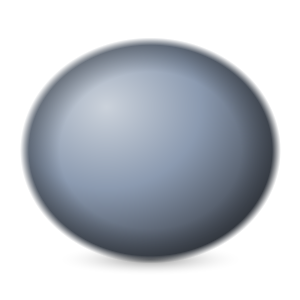
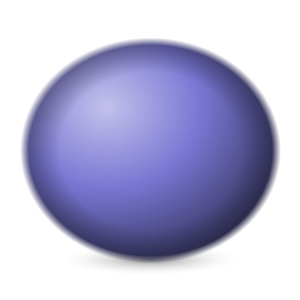
Vuelve P2 (CRUZ) al indigo original en vez del acero neutro
El usuario pidio explicitamente, con una imagen de referencia, que la
esfera y el borde del label de CRUZ usen el indigo/teal saturado
(#7B7BEA / #38C9BB) en vez del tono acero mas neutro (#8FA3C2 / #C7D2E0)
que se habia aplicado antes. backgroundTop/backgroundBottom de P2 ya
coincidian con la imagen, no cambian.

Como accent/accentHighlight alimentan glassTint y glassBorder en tiempo de
uso, el borde del _GlassLabel y el punto/borde de los chips de historial
de CRUZ heredan el nuevo color sin tocar coin_screen.dart. Actualiza
_cruzColor en generate_placeholders.dart y regenera los 14 PNG.

Changed region(s): [[0.09, 0.15, 0.84, 0.78]]

diff --git a/lib/core/theme.dart b/lib/core/theme.dart
@@ -19,10 +19,11 @@ abstract class AppTheme {
 
 /// Acento visual asociado a la cara de la moneda que está en pantalla.
 ///
-/// `cara` ("Oro y Grafito") y `cruz` ("Plata Azulada") son las dos paletas
-/// documentadas en `public_rag/app_look_feel.md` — cualquier cambio de tono
-/// acá debe reflejarse también ahí y en `generate_placeholders.dart`, que
-/// mantiene sus propios valores RGB porque corre fuera del SDK de Flutter.
+/// `cara` ("Oro y Grafito") y `cruz` ("Índigo Nocturno") son las dos
+/// paletas documentadas en `public_rag/app_look_feel.md` — cualquier cambio
+/// de tono acá debe reflejarse también ahí y en `generate_placeholders.dart`,
+/// que mantiene sus propios valores RGB porque corre fuera del SDK de
+/// Flutter.
 class CoinPalette {
   const CoinPalette({
     required this.accent,
@@ -50,8 +51,8 @@ class CoinPalette {
   );
 
   static const cruz = CoinPalette(
-    accent: Color(0xFF8FA3C2),
-    accentHighlight: Color(0xFFC7D2E0),
+    accent: Color(0xFF7B7BEA),
+    accentHighlight: Color(0xFF38C9BB),
     backgroundTop: Color(0xFF1C1A30),
     backgroundBottom: Color(0xFF0B0B12),
   );

diff --git a/generate_placeholders.dart b/generate_placeholders.dart
@@ -19,7 +19,7 @@ import 'dart:typed_data';
 /// purpose. See public_rag/app_look_feel.md.
 
 const _caraColor = [0xD6, 0xAD, 0x60]; // CoinPalette.cara.accent
-const _cruzColor = [0x8F, 0xA3, 0xC2]; // CoinPalette.cruz.accent
+const _cruzColor = [0x7B, 0x7B, 0xEA]; // CoinPalette.cruz.accent
 
 const _canvasSize = 300;
 const _frameCount = 12;

diff --git a/public_rag/app_look_feel.md b/public_rag/app_look_feel.md
@@ -29,13 +29,16 @@ Implementada en `CoinPalette` (`lib/core/theme.dart`), seleccionada vía
 | Cara | Nombre | `accent` | `accentHighlight` | Uso |
 |---|---|---|---|---|
 | **CARA** | Oro y Grafito (P1) | `#D6AD60` | `#F0D698` | moneda `cara.png`, borde/glow del `_GlassLabel`, punto + borde del chip de historial cuando `record.result == 'cara'` |
-| **CRUZ** | Plata Azulada (P2) | `#8FA3C2` | `#C7D2E0` | moneda `cruz.png`, borde/glow del `_GlassLabel`, punto + borde del chip de historial cuando `record.result == 'cruz'` |
+| **CRUZ** | Índigo Nocturno (P2) | `#7B7BEA` | `#38C9BB` | moneda `cruz.png`, borde/glow del `_GlassLabel`, punto + borde del chip de historial cuando `record.result == 'cruz'` |
 
-Nota de diseño: la propuesta original llamaba a P2 "Índigo Nocturno"
-(`#7B7BEA`/`#38C9BB`, más púrpura/teal). El usuario pidió explícitamente que
-CRUZ se sienta **azul, plateado, metálico** — P2 se ajustó a un tono acero
-más neutro (`#8FA3C2`) en vez del índigo saturado original. Si se retoma la
-variante índigo en el futuro, tratarla como `P2b`, no como reemplazo de esta.
+Nota de diseño: P2 pasó por dos versiones el mismo día. La propuesta
+original era este índigo/teal saturado; se cambió después a un acero más
+neutro (`#8FA3C2`/`#C7D2E0`) porque el usuario pidió que CRUZ se sintiera
+"azul, plateado, metálico". Al ver el resultado en pantalla, el usuario
+volvió a pedir explícitamente el índigo original (imagen de referencia con
+los hex `#0B0B12` `#1C1A30` `#7B7BEA` `#38C9BB`) — **esta es la versión
+vigente**. El acero neutro no quedó documentado como alternativa; si hace
+falta retomarlo, es `accent: #8FA3C2` / `accentHighlight: #C7D2E0`.
 
 `glassTint` (`accent` @ 18% alpha) y `glassBorder` (`accent` @ 45% alpha) se
 derivan del `accent` en tiempo de uso — no se guardan como constantes
@@ -57,9 +60,11 @@ para dejarlo ver.
 
 P1 es casi neutro (un gris carbón con la tibieza justa para no chocar con el
 oro); P2 lleva un tinte índigo perceptible — así el fondo de CRUZ se nota
-más "propio" que el de CARA, que replica el Cupertino oscuro base. Sigue el
-mismo `CoinPalette.forResult(coinState.lastResult)` que el resto de los
-acentos: en `idle` (antes del primer tiro) muestra el fondo P1 por defecto.
+más "propio" que el de CARA, que replica el Cupertino oscuro base. Estos dos
+hex no cambiaron entre las dos versiones de P2 (ver nota arriba) — solo se
+ajustó `accent`/`accentHighlight`. Sigue el mismo
+`CoinPalette.forResult(coinState.lastResult)` que el resto de los acentos:
+en `idle` (antes del primer tiro) muestra el fondo P1 por defecto.
 
 ### Assets de la moneda
 
